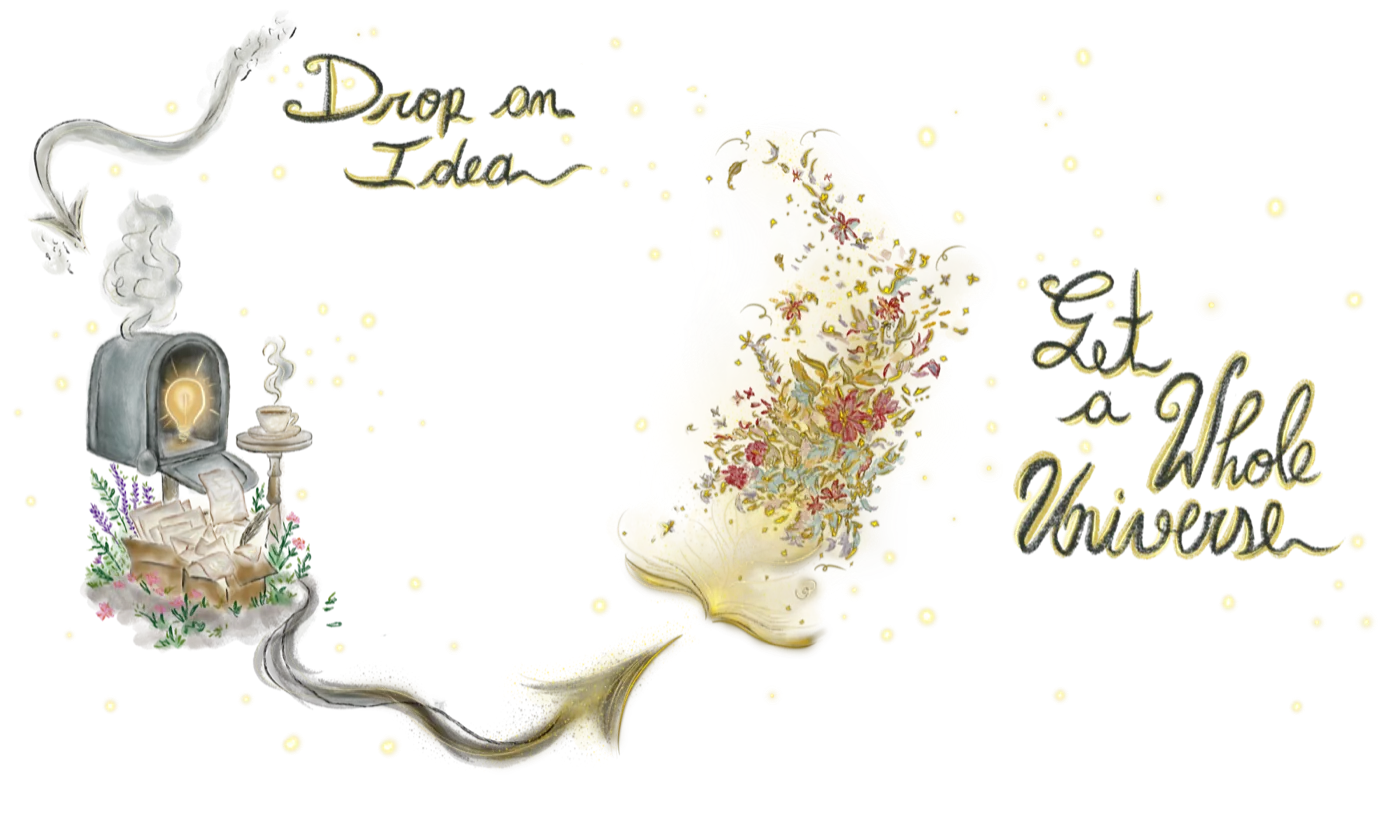
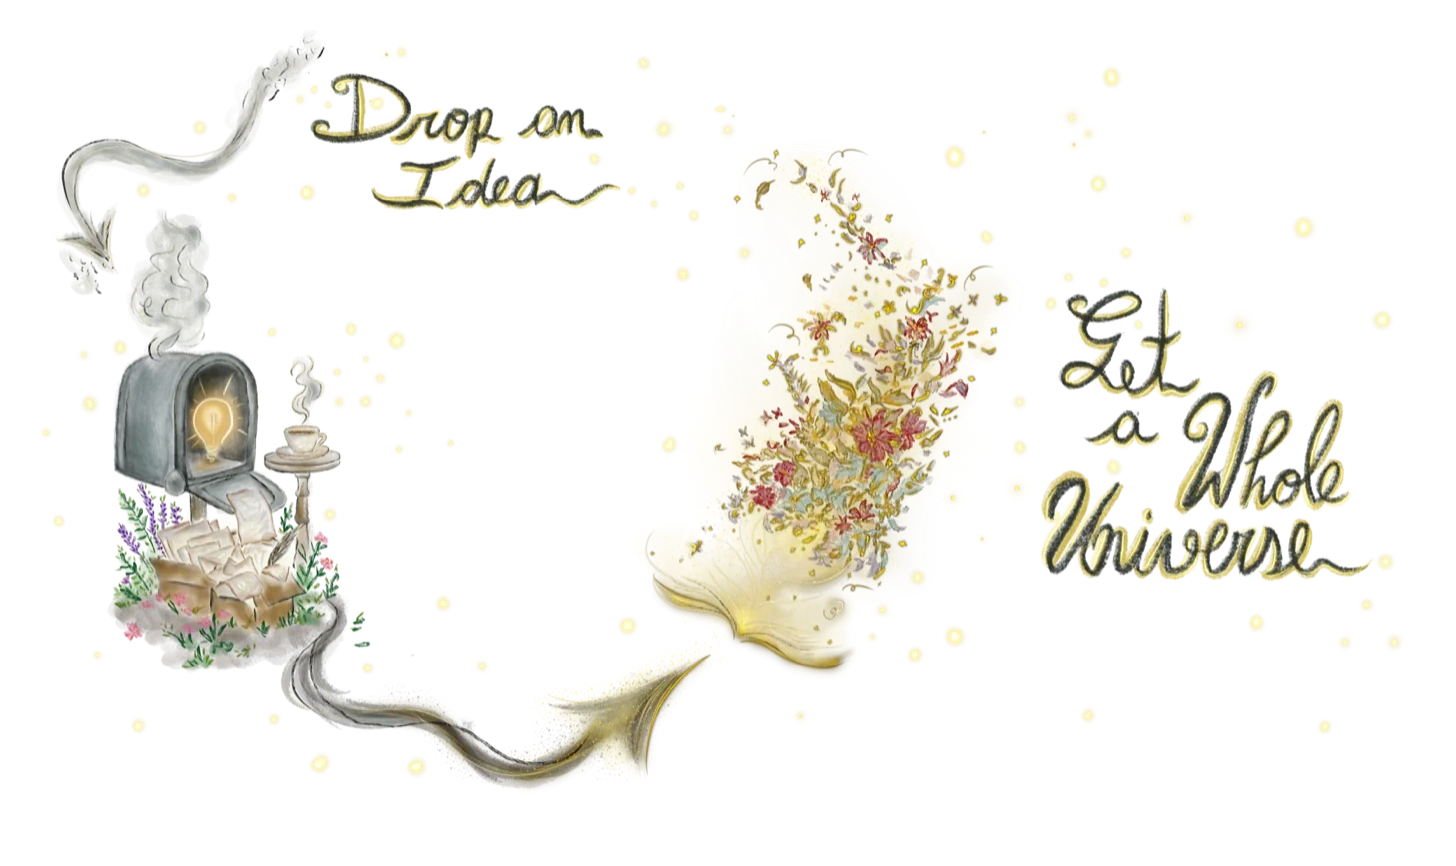
Center the Services process illustration so lettering stays visible.
Widen and flex-center the Drop an Idea plate, add safe padding to the asset, and keep hover scaling from clipping Get a Whole Universe on small screens.

diff --git a/services/services-styles.css b/services/services-styles.css
@@ -114,19 +114,40 @@
   outline-offset: 4px;
 }
 
+/* Proceso creativo — composición apaisada; centrada y ancha para que el lettering no se corte */
+.svc-process-illustration {
+  display: flex;
+  justify-content: center;
+  padding-left: clamp(0.75rem, 3vw, 2rem);
+  padding-right: clamp(0.75rem, 3vw, 2rem);
+  overflow: visible;
+}
+
+.svc-process-illustration .svc-illustration {
+  width: min(920px, 100%);
+  margin-inline: auto;
+}
+
 .svc-process-illustration .svc-illustration__trigger {
-  max-width: 620px;
+  width: 100%;
+  max-width: 100%;
+  margin-inline: auto;
 }
 
 .svc-process-illustration .svc-illustration__img {
-  max-width: none;
-  margin: 0 auto;
+  width: 100%;
+  max-width: 100%;
+  height: auto;
+  margin-inline: auto;
   display: block;
+  object-fit: contain;
+  object-position: center center;
 }
 
 .svc-process-illustration .svc-illustration__trigger:hover .svc-illustration__img,
 .svc-process-illustration .svc-illustration__trigger:focus-visible .svc-illustration__img {
-  transform: scale(1.08);
+  transform: scale(1.03);
+  transform-origin: center center;
 }
 
 /* ============================================
@@ -553,6 +574,20 @@
   .svc-cta-btn {
     width: 100%;
     max-width: 320px;
+  }
+
+  .svc-process-illustration {
+    padding-left: clamp(0.35rem, 2vw, 0.75rem);
+    padding-right: clamp(0.35rem, 2vw, 0.75rem);
+  }
+
+  .svc-process-illustration .svc-illustration {
+    width: 100%;
+  }
+
+  .svc-process-illustration .svc-illustration__trigger:hover .svc-illustration__img,
+  .svc-process-illustration .svc-illustration__trigger:focus-visible .svc-illustration__img {
+    transform: none;
   }
 
   .svc-script-label--drop {

diff --git a/es/services/index.html b/es/services/index.html
@@ -164,7 +164,7 @@
           src="../../assets/services/illustration-process-mailbox-dropoff.webp"
           alt="Ilustración de un buzón resplandeciente y rebosante de cartas, conectado por un camino de cinta dorada a un libro abierto que florece entre flores y estrellas, con la inscripción manuscrita Drop an Idea y Get a Whole Universe. Haz clic para ampliar."
           class="svc-illustration__img"
-          width="1800" height="1063"
+          width="1456" height="866"
           loading="lazy"
           decoding="async"
         />

diff --git a/nl/services/index.html b/nl/services/index.html
@@ -164,7 +164,7 @@
           src="../../assets/services/illustration-process-mailbox-dropoff.webp"
           alt="Illustratie van een gloeiende, overvolle brievenbus, verbonden door een pad van goudkleurig lint met een open boek dat bloeit tussen bloemen en sterren, met de handgeschreven woorden Drop an Idea en Get a Whole Universe. Klik om te vergroten."
           class="svc-illustration__img"
-          width="1800" height="1063"
+          width="1456" height="866"
           loading="lazy"
           decoding="async"
         />

diff --git a/services/index.html b/services/index.html
@@ -184,7 +184,7 @@
           src="../assets/services/illustration-process-mailbox-dropoff.webp"
           alt="Illustration of a glowing mailbox overflowing with letters, connected by a golden ribboned path to an open book blooming with flowers and stars, hand-lettered with the words Drop an Idea and Get a Whole Universe. Click to enlarge."
           class="svc-illustration__img"
-          width="1800" height="1063"
+          width="1456" height="866"
           loading="lazy"
           decoding="async"
         />
